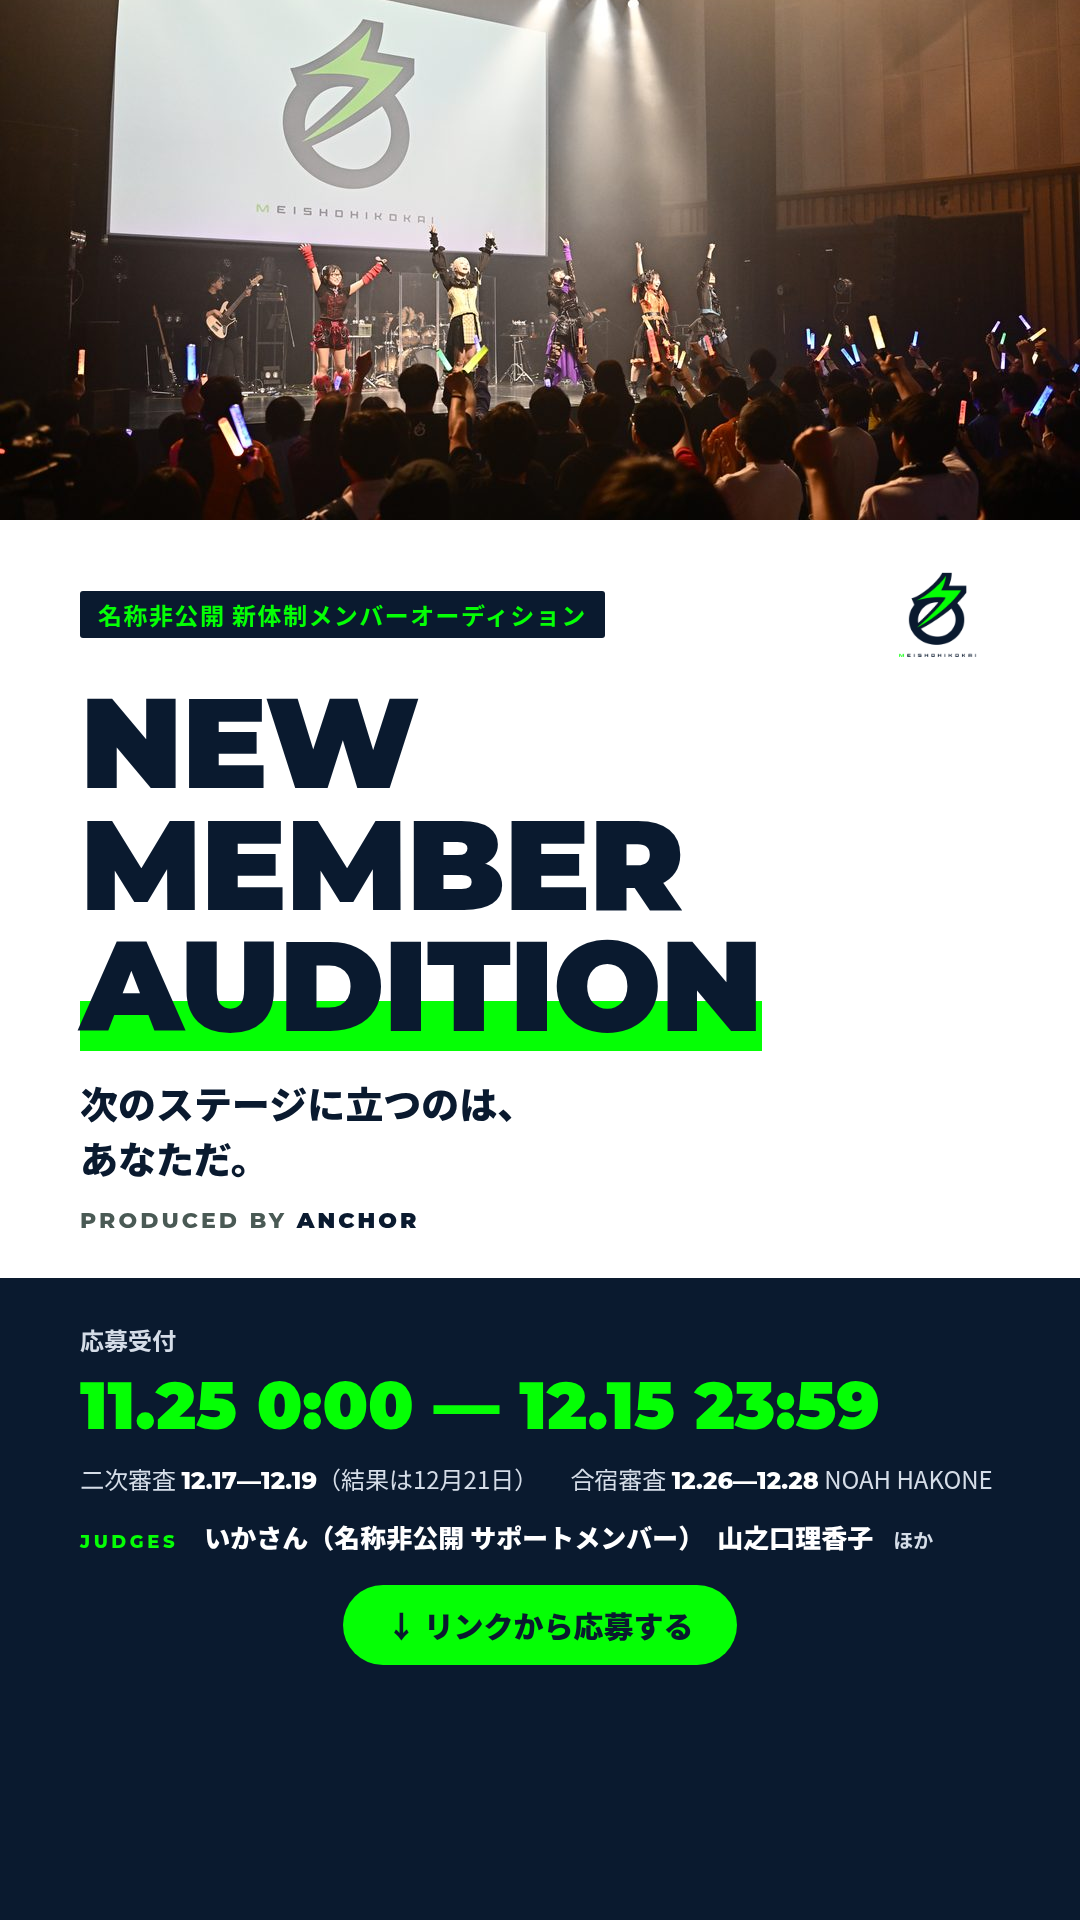
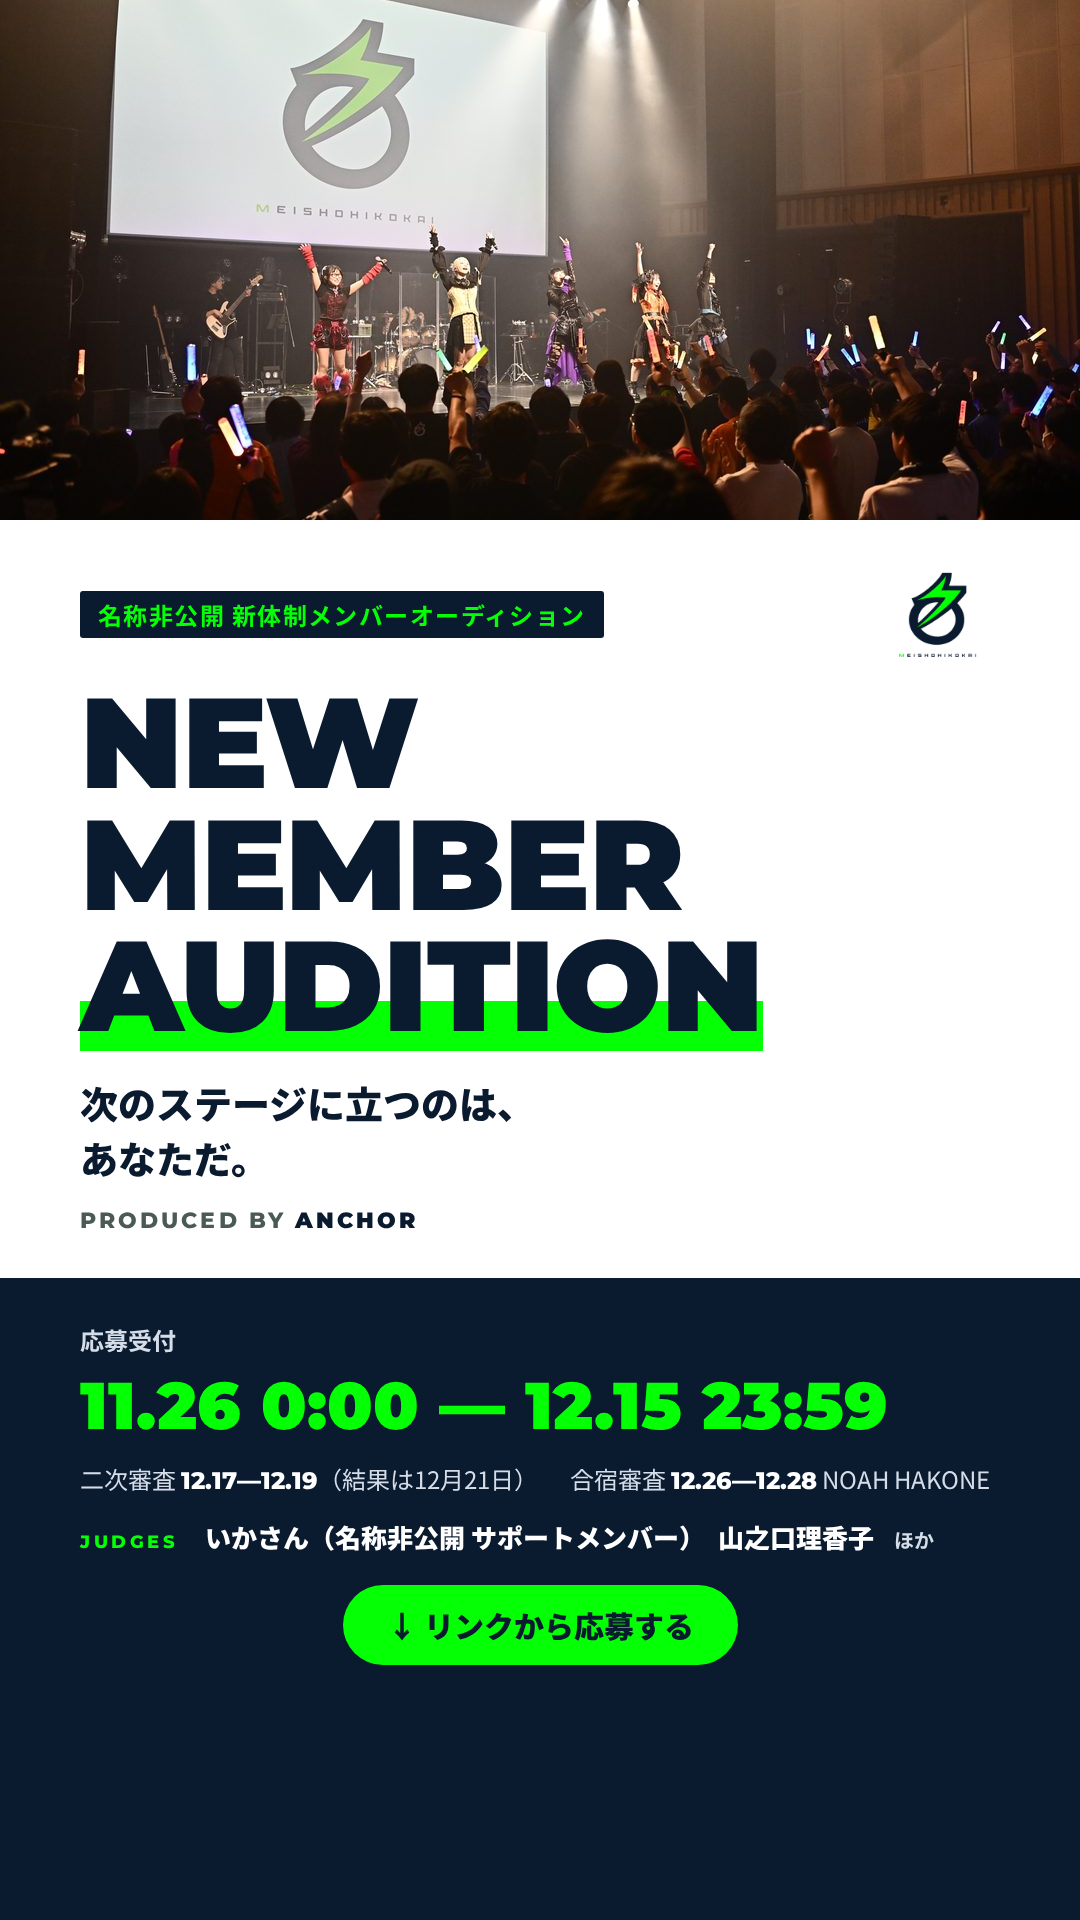
Move audition entry start to 26 November 00:00 JST.
Update the landing page copy, structured data, Open Graph text, and the flyer and social HTML, then re-export those PNGs. The close remains 15 December 23:59.

diff --git a/index.html b/index.html
@@ -5,11 +5,11 @@
 <meta name="viewport" content="width=device-width, initial-scale=1, viewport-fit=cover">
 <meta name="robots" content="noindex,nofollow">
 <title>名称非公開 新メンバーオーディション</title>
-<meta name="description" content="次のアニメのステージに立つのはあなただ。音楽グループ「名称非公開」の新体制メンバーオーディション。応募受付は2026年11月25日(水)0:00〜12月15日(火)23:59。">
+<meta name="description" content="次のアニメのステージに立つのはあなただ。音楽グループ「名称非公開」の新体制メンバーオーディション。応募受付は2026年11月26日(木)0:00〜12月15日(火)23:59。">
 <link rel="canonical" href="https://audition.meisho.tokyo/">
 <meta name="theme-color" content="#0A1A2F">
 <meta property="og:title" content="名称非公開 新メンバーオーディション">
-<meta property="og:description" content="次のアニメのステージに立つのはあなただ。応募受付は2026年11月25日(水)0:00〜12月15日(火)23:59。公式LINEから応募できます。">
+<meta property="og:description" content="次のアニメのステージに立つのはあなただ。応募受付は2026年11月26日(木)0:00〜12月15日(火)23:59。公式LINEから応募できます。">
 <meta property="og:type" content="website">
 <meta property="og:url" content="https://audition.meisho.tokyo/">
 <meta property="og:image" content="https://audition.meisho.tokyo/images/ogp.png">
@@ -33,8 +33,8 @@ try{if(!window.matchMedia("(prefers-reduced-motion: reduce)").matches)document.d
   "@context": "https://schema.org",
   "@type": "Event",
   "name": "名称非公開 新メンバーオーディション",
-  "description": "音楽グループ「名称非公開」の新体制メンバーオーディション。応募受付は2026年11月25日(水)0:00〜12月15日(火)23:59。",
-  "startDate": "2026-11-25T00:00:00+09:00",
+  "description": "音楽グループ「名称非公開」の新体制メンバーオーディション。応募受付は2026年11月26日(木)0:00〜12月15日(火)23:59。",
+  "startDate": "2026-11-26T00:00:00+09:00",
   "endDate": "2026-12-15T23:59:59+09:00",
   "eventAttendanceMode": "https://schema.org/OnlineEventAttendanceMode",
   "eventStatus": "https://schema.org/EventScheduled",
@@ -300,7 +300,7 @@ html.has-sticky-entry{padding-bottom:var(--sticky-h,64px)}
 <p class="eyebrow">名称非公開 新体制メンバーオーディション</p>
 <h1><span>NEW</span><span>MEMBER</span><span>AUDITION</span></h1>
 <p class="catch">次のアニメのステージに立つのはあなただ。</p>
-<p class="deadline"><span class="dl-label">応募受付</span><span class="dl-range"><span class="nowrap">2026年11月25日(水) 0:00</span> <span class="nowrap">〜 12月15日(火) 23:59</span></span></p>
+<p class="deadline"><span class="dl-label">応募受付</span><span class="dl-range"><span class="nowrap">2026年11月26日(木) 0:00</span> <span class="nowrap">〜 12月15日(火) 23:59</span></span></p>
 <div class="hero-actions"><a class="btn" id="hero-cta" href="https://lin.ee/9cqyKYC" target="_blank" rel="noopener">応募する</a></div>
 </div>
 </section>
@@ -383,7 +383,7 @@ html.has-sticky-entry{padding-bottom:var(--sticky-h,64px)}
 <div class="wrap">
 <h2 class="stagger">選考スケジュール</h2>
 <ol class="stages seq">
-<li><p class="name">応募受付</p><p class="when">11月25日(水) 0:00 〜 12月15日(火) 23:59</p><p class="desc">先着順ではありません。</p></li>
+<li><p class="name">応募受付</p><p class="when">11月26日(木) 0:00 〜 12月15日(火) 23:59</p><p class="desc">先着順ではありません。</p></li>
 <li><p class="name">一次審査（書類・動画）</p><p class="when">書類・動画による審査</p><p class="result">結果は12月15日(火)までに順次ご連絡</p></li>
 <li><p class="name">二次審査（対面）</p><p class="when">12月17日(木)〜19日(土)</p><p class="result">結果は12月21日(月)。日時は個別にご案内します</p></li>
 <li><p class="name">三次審査（合宿・2泊3日）</p><p class="when">12月26日(土)〜28日(月)</p><p class="place">NOAH HAKONE（箱根）</p><p class="desc">顔合わせ、グループ課題、最終パフォーマンス。</p></li>

diff --git a/flyer_a4.html b/flyer_a4.html
@@ -34,7 +34,7 @@ body{margin:0;background:#FFFFFF}
 <div style="flex: 1 1 auto; background: #0A1A2F; color: #FFFFFF; box-sizing: border-box; padding: 30px 48px 32px; display: flex; gap: 32px">
 <div style="flex: 1 1 auto; min-width: 0; display: flex; flex-direction: column; gap: 18px">
 <div style="display: flex; flex-direction: column; gap: 6px">
-<div style="display: flex; align-items: baseline; gap: 14px; border-bottom: 1px solid #2A3D57; padding-bottom: 6px"><span style="flex: 0 0 132px; font-size: 14px; font-weight: 700; color: #D5DDE8">応募受付</span><span style="font-family: 'Montserrat', sans-serif; font-size: 24px; font-weight: 900; color: var(--accent)">11.25 0:00 — 12.15 23:59</span></div>
+<div style="display: flex; align-items: baseline; gap: 14px; border-bottom: 1px solid #2A3D57; padding-bottom: 6px"><span style="flex: 0 0 132px; font-size: 14px; font-weight: 700; color: #D5DDE8">応募受付</span><span style="font-family: 'Montserrat', sans-serif; font-size: 24px; font-weight: 900; color: var(--accent)">11.26 0:00 — 12.15 23:59</span></div>
 <div style="display: flex; align-items: baseline; gap: 14px; border-bottom: 1px solid #2A3D57; padding-bottom: 6px"><span style="flex: 0 0 132px; font-size: 14px; font-weight: 700; color: #D5DDE8">二次審査（対面）</span><span style="font-family: 'Montserrat', sans-serif; font-size: 18px; font-weight: 800">12.17 — 12.19</span><span style="font-size: 12px; color: #D5DDE8">結果は12月21日（月）</span></div>
 <div style="display: flex; align-items: baseline; gap: 14px; border-bottom: 1px solid #2A3D57; padding-bottom: 6px"><span style="flex: 0 0 132px; font-size: 14px; font-weight: 700; color: #D5DDE8">三次審査（合宿）</span><span style="font-family: 'Montserrat', sans-serif; font-size: 18px; font-weight: 800">12.26 — 12.28</span><span style="font-size: 12px; color: #D5DDE8">NOAH HAKONE・2泊3日</span></div>
 

diff --git a/sns_feed_1080x1350.html b/sns_feed_1080x1350.html
@@ -32,7 +32,7 @@ body{margin:0;background:#FFFFFF}
 </div>
 
 <div style="flex: 1 1 auto; background: #0A1A2F; color: #FFFFFF; box-sizing: border-box; padding: 30px 80px 0; display: flex; flex-direction: column; gap: 14px">
-<div style="display: flex; align-items: baseline; gap: 20px"><span style="font-size: 22px; font-weight: 700; color: #D5DDE8">応募受付</span><span style="font-family: 'Montserrat', sans-serif; font-size: 50px; font-weight: 900; color: var(--accent); line-height: 1.1">2026.11.25 0:00 — 12.15 23:59</span></div>
+<div style="display: flex; align-items: baseline; gap: 20px"><span style="font-size: 22px; font-weight: 700; color: #D5DDE8">応募受付</span><span style="font-family: 'Montserrat', sans-serif; font-size: 50px; font-weight: 900; color: var(--accent); line-height: 1.1">2026.11.26 0:00 — 12.15 23:59</span></div>
 <div style="display: flex; flex-wrap: wrap; gap: 6px 28px; font-size: 20px; color: #D5DDE8"><span>二次審査 <b style="font-family: 'Montserrat', sans-serif; color: #FFFFFF">12.17—12.19</b>（結果は12月21日）</span><span>合宿審査 <b style="font-family: 'Montserrat', sans-serif; color: #FFFFFF">12.26—12.28</b> NOAH HAKONE</span></div>
 <div style="font-size: 22px; font-weight: 900"><span style="font-family: 'Montserrat', sans-serif; font-size: 15px; font-weight: 800; letter-spacing: 0.2em; color: var(--accent)">JUDGES</span>　いかさん（名称非公開 サポートメンバー）　山之口理香子<span style="font-size: 17px; font-weight: 700; color: #D5DDE8">　ほか</span></div>
 <div style="margin-top: auto; margin-left: -80px; margin-right: -80px; background: var(--accent); color: #0A1A2F; padding: 18px 80px; display: flex; justify-content: space-between; align-items: center">

diff --git a/sns_story_1080x1920.html b/sns_story_1080x1920.html
@@ -29,7 +29,7 @@ body{margin:0;background:#FFFFFF}
 
 <div style="flex: 1 1 auto; background: #0A1A2F; color: #FFFFFF; box-sizing: border-box; padding: 44px 80px 0; display: flex; flex-direction: column; gap: 16px">
 <div style="font-size: 24px; font-weight: 700; color: #D5DDE8">応募受付</div>
-<div style="font-family: 'Montserrat', sans-serif; font-size: 66px; font-weight: 900; color: var(--accent); line-height: 1">11.25 0:00 — 12.15 23:59</div>
+<div style="font-family: 'Montserrat', sans-serif; font-size: 66px; font-weight: 900; color: var(--accent); line-height: 1">11.26 0:00 — 12.15 23:59</div>
 <div style="display: flex; flex-wrap: wrap; gap: 8px 32px; font-size: 24px; color: #D5DDE8; margin-top: 6px"><span>二次審査 <b style="font-family: 'Montserrat', sans-serif; color: #FFFFFF">12.17—12.19</b>（結果は12月21日）</span><span>合宿審査 <b style="font-family: 'Montserrat', sans-serif; color: #FFFFFF">12.26—12.28</b> NOAH HAKONE</span></div>
 <div style="font-size: 26px; font-weight: 900; margin-top: 6px"><span style="font-family: 'Montserrat', sans-serif; font-size: 18px; font-weight: 800; letter-spacing: 0.2em; color: var(--accent)">JUDGES</span>　いかさん（名称非公開 サポートメンバー）　山之口理香子<span style="font-size: 20px; font-weight: 700; color: #D5DDE8">　ほか</span></div>
 <div style="margin-top: 14px; align-self: center; background: var(--accent); color: #0A1A2F; padding: 18px 44px; border-radius: 999px; font-size: 30px; font-weight: 900">↓ リンクから応募する</div>
